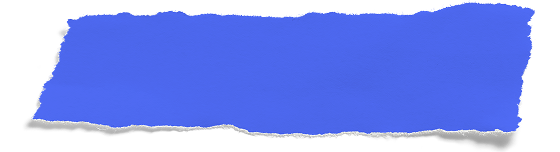
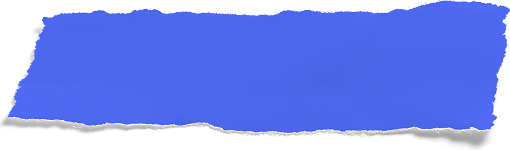
cleared routerlinks // fixed Ripped paper size

Changed region(s): [[0.0, 0.0, 1.0, 0.9867]]

diff --git a/src/main.ts b/src/main.ts
@@ -1,8 +1,7 @@
 import { bootstrapApplication } from '@angular/platform-browser';
 import { AppComponent } from './app/app.component';
-import { provideRouter, withInMemoryScrolling } from '@angular/router';
+import { provideRouter, withInMemoryScrolling, withHashLocation, withEnabledBlockingInitialNavigation } from '@angular/router';
 import { routes } from './app/app.routes';
-import { withEnabledBlockingInitialNavigation } from '@angular/router';
 import { importProvidersFrom } from '@angular/core';
 import { HttpClientModule, HttpClient } from '@angular/common/http';
 import { TranslateLoader, TranslateModule } from '@ngx-translate/core';
@@ -21,7 +20,7 @@ export function HttpLoaderFactory(http: HttpClient) {
 bootstrapApplication(AppComponent, {
   providers: [
     provideRouter(
-      routes,
+      routes, withHashLocation(),
       withEnabledBlockingInitialNavigation(),
       withInMemoryScrolling({
         scrollPositionRestoration: 'top',

diff --git a/src/app/app.routes.ts b/src/app/app.routes.ts
@@ -3,7 +3,6 @@ import { MainContentComponent } from './main-content/main-content.component';
 import { ProjectViewComponent } from './projects/project-view/project-view.component';
 import { PrivacyPolicyComponent } from './privacy-policy/privacy-policy.component';
 import { LegalNoticeComponent } from './legal-notice/legal-notice.component';
-import { ContactMeComponent } from './contact-me/contact-me.component';
 
 export const routes: Routes = [
     { path: '', component: MainContentComponent },

diff --git a/src/app/projects/project-view/project-view.component.html b/src/app/projects/project-view/project-view.component.html
@@ -2,7 +2,7 @@
     <app-navbar></app-navbar>
     <div class="content">
         <div class="projectMenu">
-            <div class="goBackButton" [routerLink]="['/projects']" [fragment]="'projects'">
+            <div class="goBackButton" [routerLink]="['']" [fragment]="'projects'">
                 <img src="../../../assets/img/projects-section/back-arrow.png">
                 <p>{{ "PROJECT_VIEW.GO_BACK" | translate }}</p>
             </div>

diff --git a/src/app/privacy-policy/privacy-policy.component.html b/src/app/privacy-policy/privacy-policy.component.html
@@ -1,6 +1,6 @@
 <div class="body" id="privacyPolicy">
     <h1 class="title">Datenschutzerklärung</h1>
-    <div class="goBackButton" [routerLink]="['/contactMe']" [fragment]="'contact'">
+    <div class="goBackButton" [routerLink]="['']" [fragment]="'contact'">
         <img src="../../../assets/img/projects-section/back-arrow.png">
         <p>{{ "PROJECT_VIEW.GO_BACK" | translate }}</p>
     </div>

diff --git a/src/app/legal-notice/legal-notice.component.html b/src/app/legal-notice/legal-notice.component.html
@@ -1,7 +1,7 @@
 
 <div class="body">
     <div>
-        <div class="goBackButton" [routerLink]="['/contactMe']" [fragment]="'contact'">
+        <div class="goBackButton" [routerLink]="['']" [fragment]="'contact'">
                 <img src="../../../assets/img/projects-section/back-arrow.png">
                 <p>{{ "PROJECT_VIEW.GO_BACK" | translate }}</p>
             </div>

diff --git a/src/app/about-me/about-me.component.scss b/src/app/about-me/about-me.component.scss
@@ -248,7 +248,7 @@ a {
 @media (max-width: 750px) {
     .wrapper {
         flex-direction: column-reverse;
-        padding: 64px 0;
+        padding: 64px 8px;
     }
 
     .rippedPaper {
@@ -261,10 +261,6 @@ a {
 
     .positionOrange {
         bottom: 60px;
-    }
-
-    .aboutMeTextArea {
-        padding: 0 16px;
     }
 
     .aboutMeTextArea, .textSection {
